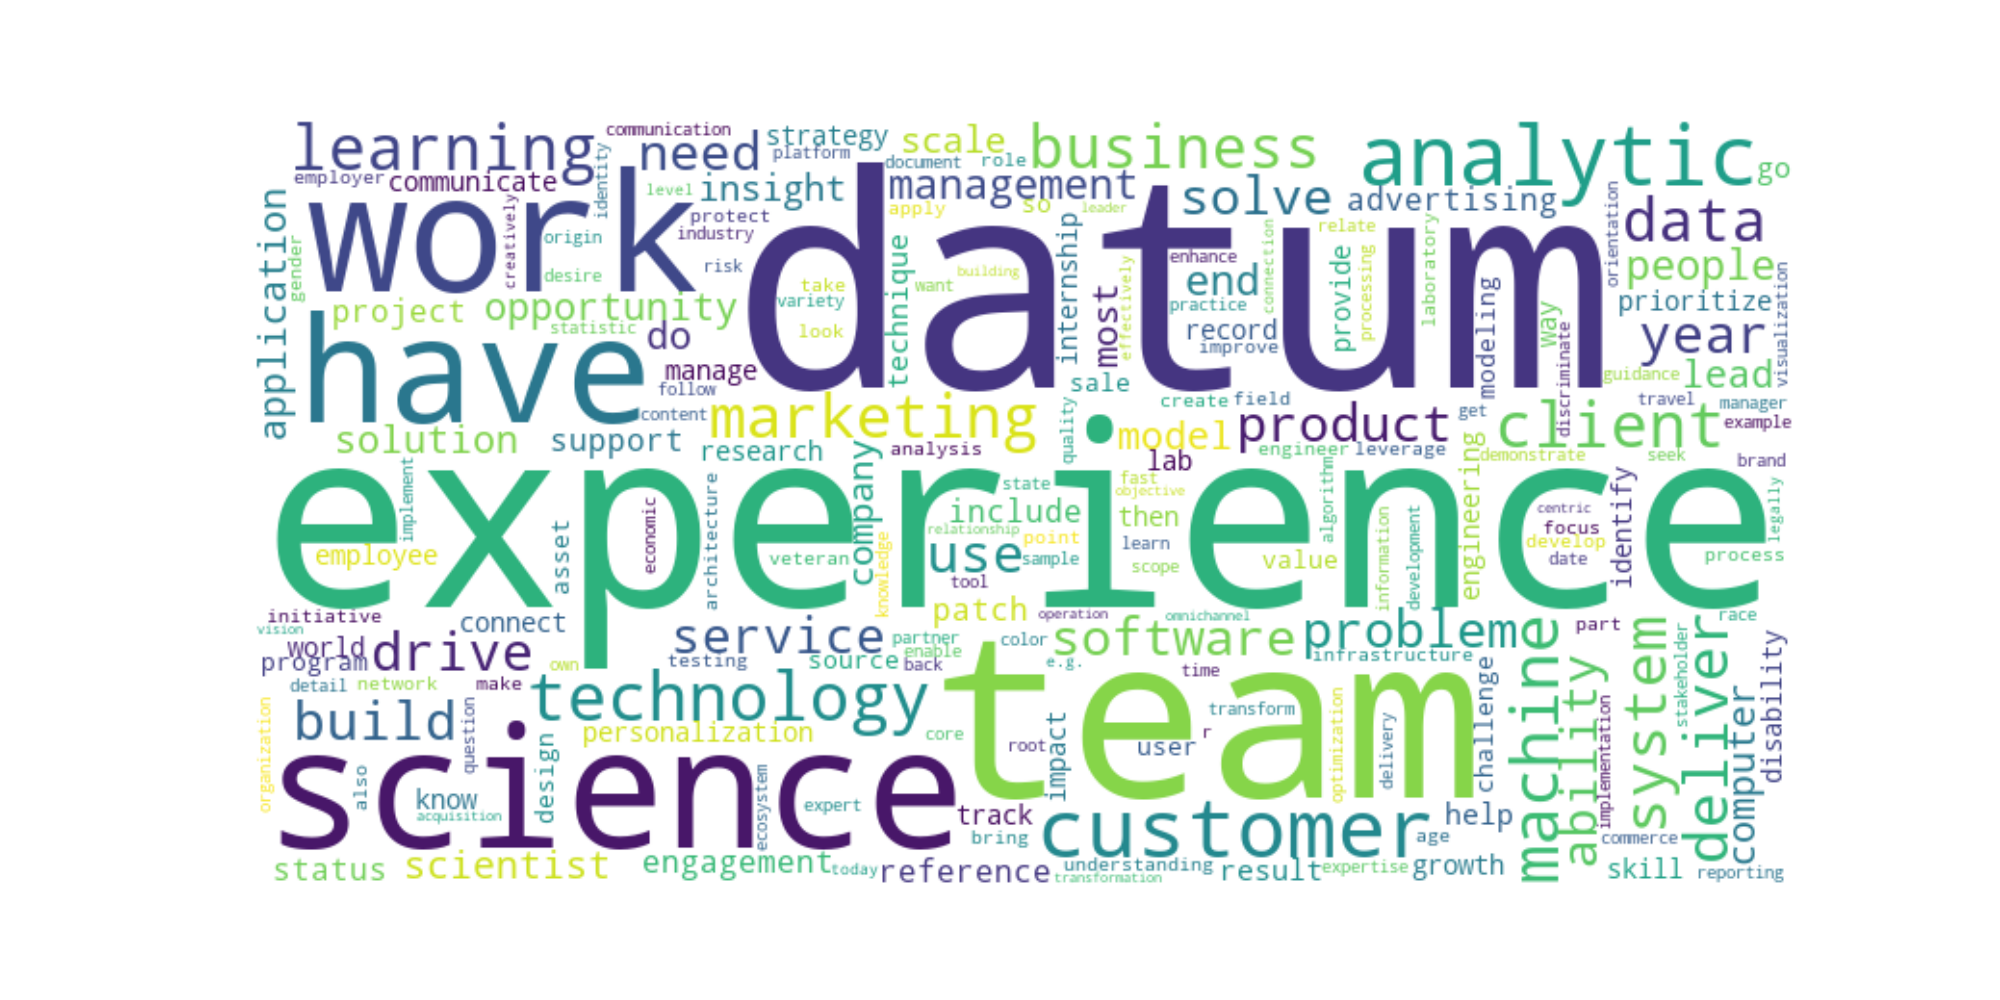
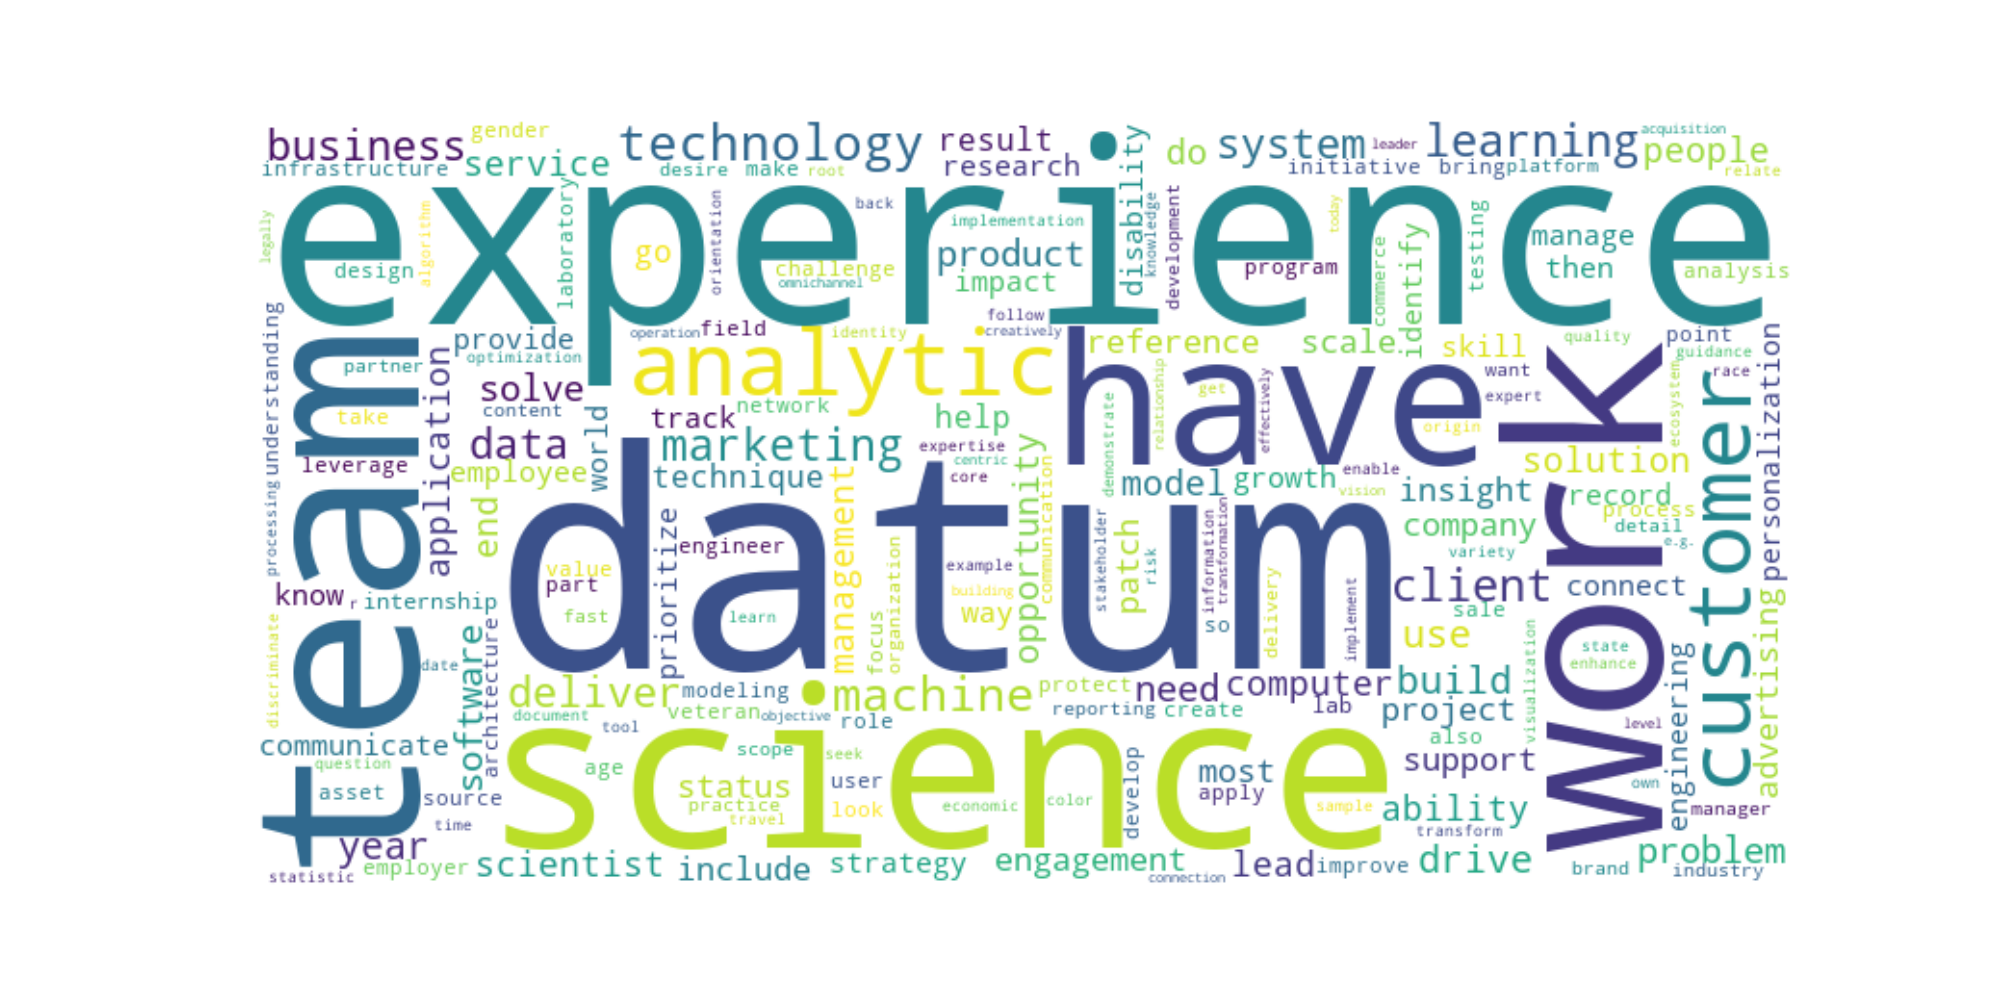
remove save figure and update output files

diff --git a/test.py b/test.py
@@ -20,7 +20,7 @@ jobs.evaluate(createimg=False,pos=['ADV','NOUN','VERB'])
 
 job_data = jobs.job_data
 
-jobs.make_cloud(saveplot=True)
+jobs.make_cloud(saveplot=False)
 
 print(job_data)
 job_data.to_excel('job_data.xlsx')
